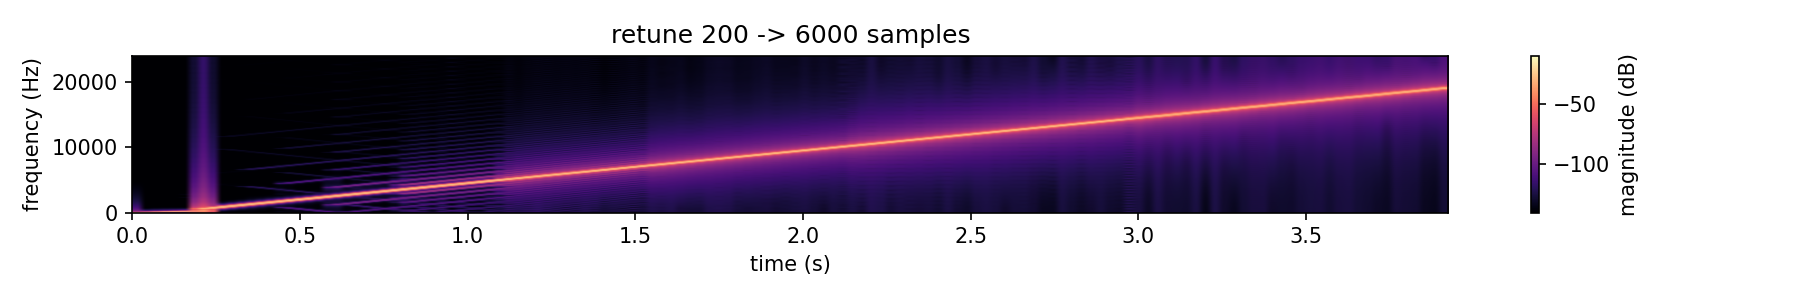
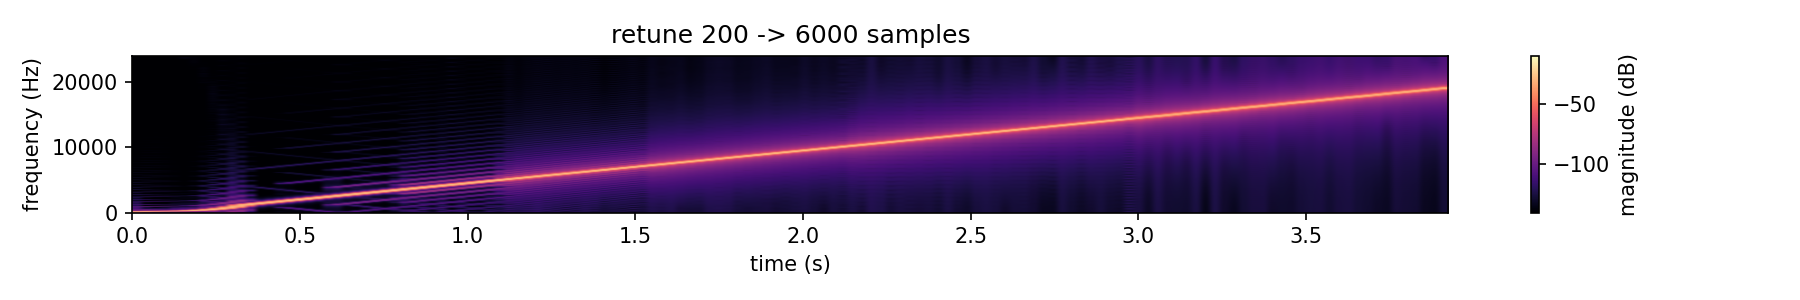
Ease the WobbleDelay retune with a smoothstep glide

Changed region(s): [[0.0622, 0.18, 0.1556, 0.72]]

diff --git a/src/includes/Delays/WobbleDelay.h b/src/includes/Delays/WobbleDelay.h
@@ -12,7 +12,6 @@
 #include "Modulation/Flutter.h"
 #include "Modulation/Wow.h"
 #include "Numbers/Interpolation.h"
-#include "Parameters/SmoothingParameter.h"
 
 namespace AbacDsp
 {
@@ -22,10 +21,11 @@ namespace AbacDsp
  * @brief Mono single-rate delay whose read head wobbles like a tape transport.
  *
  * The read position is the write head minus a delay, so it can never drift from it. That
- * delay is a smoothed base distance plus a Wow delay and a Flutter offset, updated every
+ * delay is an eased base distance plus a Wow delay and a Flutter offset, updated every
  * TileSize samples and interpolated linearly in between. The result is clamped to the safety
  * margin, so the read head can not reach the write head however deep the modulation is.
- * setDelay() glides at a bounded read speed instead of jumping. The read is Catmull-Rom.
+ * setDelay() glides along a smoothstep curve, so the read speed is zero at both ends of a retune
+ * and its peak is bounded. The read is Catmull-Rom.
  *
  * There is no resampling here: run it at another rate by wrapping it in UpDownSampler.
  * Flutter is a speed error, used here directly as a position offset scaled to the physical
@@ -39,8 +39,10 @@ class WobbleDelay
     static_assert(TileSize > 0);
 
   public:
-    /// Fastest retune in samples of delay change per sample, i.e. reads at 0.5x or 1.5x speed.
+    /// Peak retune speed in samples of delay change per sample, i.e. reads at 0.5x or 1.5x speed.
     static constexpr float kRetuneSlope{0.5f};
+    /// Peak slope of the smoothstep curve, which a retune's duration is stretched by.
+    static constexpr float kSmoothstepPeakSlope{1.5f};
     /// Flutter frequency at which its position offset equals the physical delay excursion.
     static constexpr float kFlutterReferenceHz{10.f};
     /// Fewest samples between write and read that the four-point read can support.
@@ -49,8 +51,7 @@ class WobbleDelay
     static constexpr float kDefaultDelay{static_cast<float>(BufferSize) / 8.f};
 
     explicit WobbleDelay(const float sampleRate)
-        : m_sampleRate(sampleRate)
-        , m_controlRate(sampleRate / static_cast<float>(TileSize))
+        : m_controlRate(sampleRate / static_cast<float>(TileSize))
         , m_msToSamples(sampleRate / 1000.f)
         , m_flutterScale(sampleRate / (2.f * std::numbers::pi_v<float> * kFlutterReferenceHz))
         , m_buffer(BufferSize, 0.f)
@@ -61,11 +62,20 @@ class WobbleDelay
     }
 
     /// @brief Moves the base delay to the given number of samples, gliding unless forced.
+    /// A retune started during a glide continues from the current position at zero speed.
     void setDelay(const float samples, const bool force = false) noexcept
     {
         const auto target = std::clamp(samples, m_safetyMargin, kMaxDelay);
-        const auto seconds = std::abs(target - m_distance.getLastValue()) / (kRetuneSlope * m_sampleRate);
-        m_distance.newTransition(target, seconds, m_controlRate, force);
+        m_glideStart = m_baseDelay;
+        m_glideTarget = target;
+        m_glideTick = 0;
+        const auto peakTicks =
+            kSmoothstepPeakSlope * std::abs(target - m_baseDelay) / (kRetuneSlope * static_cast<float>(TileSize));
+        m_glideTicks = force ? 0 : static_cast<size_t>(std::ceil(peakTicks));
+        if (m_glideTicks == 0)
+        {
+            m_baseDelay = target;
+        }
         if (force)
         {
             m_delay = target;
@@ -149,12 +159,31 @@ class WobbleDelay
   private:
     void updateControl() noexcept
     {
-        const auto base = m_distance.getValue();
+        const auto base = advanceGlide();
         static_cast<void>(m_wow.step());
         const auto wow = m_wow.lastDelay() * m_msToSamples;
         const auto flutter = (m_flutter.step() - 1.f) * m_flutterScale;
         const auto target = std::clamp(base + wow + flutter, m_safetyMargin, kMaxDelay);
         m_delaySlope = (target - m_delay) / static_cast<float>(TileSize);
+    }
+
+    [[nodiscard]] float advanceGlide() noexcept
+    {
+        if (m_glideTicks == 0)
+        {
+            return m_baseDelay;
+        }
+        ++m_glideTick;
+        if (m_glideTick >= m_glideTicks)
+        {
+            m_glideTicks = 0;
+            m_baseDelay = m_glideTarget;
+            return m_baseDelay;
+        }
+        const auto progress = static_cast<float>(m_glideTick) / static_cast<float>(m_glideTicks);
+        const auto eased = progress * progress * (3.f - 2.f * progress);
+        m_baseDelay = m_glideStart + (m_glideTarget - m_glideStart) * eased;
+        return m_baseDelay;
     }
 
     [[nodiscard]] static size_t wrap(const size_t index) noexcept
@@ -172,7 +201,6 @@ class WobbleDelay
         return Interpolation::hermite43x(taps.data(), 1.f - fraction);
     }
 
-    const float m_sampleRate;
     const float m_controlRate;
     const float m_msToSamples;
     const float m_flutterScale;
@@ -180,7 +208,11 @@ class WobbleDelay
     std::vector<float> m_buffer;
     size_t m_head{0};
 
-    LinearSmoothing m_distance{kDefaultDelay};
+    float m_baseDelay{kDefaultDelay};
+    float m_glideStart{kDefaultDelay};
+    float m_glideTarget{kDefaultDelay};
+    size_t m_glideTick{0};
+    size_t m_glideTicks{0};
     Flutter m_flutter;
     Wow m_wow;
     float m_safetyMargin{kStructuralMinDelay};

diff --git a/test/Delays/WobbleDelay_test.cpp b/test/Delays/WobbleDelay_test.cpp
@@ -121,28 +121,66 @@ TEST(WobbleDelayTest, ForcedDelayJumpsAtOnce)
     EXPECT_FLOAT_EQ(sut.currentDelay(), 700.f);
 }
 
-TEST(WobbleDelayTest, RetuneGlidesAtBoundedSpeed)
+TEST(WobbleDelayTest, RetuneGlidesSmoothlyAtBoundedSpeed)
 {
     Sut sut(kRate);
     sut.setDelay(200.f, true);
     sut.setDelay(1000.f);
 
     float previous = sut.currentDelay();
+    float previousSpeed{0.f};
+    float peakSpeed{0.f};
+    float maxSpeedChange{0.f};
     size_t arrivedAt{0};
     for (size_t i = 1; i <= 4000; ++i)
     {
         static_cast<void>(sut.step(0.f));
         const auto now = sut.currentDelay();
-        ASSERT_LE(std::abs(now - previous), Sut::kRetuneSlope + 1e-3f) << "at " << i;
+        const auto speed = now - previous;
+        ASSERT_GE(speed, 0.f) << "at " << i;
+        ASSERT_LE(speed, Sut::kRetuneSlope + 1e-3f) << "at " << i;
+        if (i == 1)
+        {
+            EXPECT_LT(speed, 0.01f) << "starts at zero speed";
+        }
+        peakSpeed = std::max(peakSpeed, speed);
+        maxSpeedChange = std::max(maxSpeedChange, std::abs(speed - previousSpeed));
         previous = now;
+        previousSpeed = speed;
         if (arrivedAt == 0 && std::abs(now - 1000.f) < 1e-3f)
         {
             arrivedAt = i;
         }
     }
     EXPECT_FLOAT_EQ(sut.currentDelay(), 1000.f);
-    EXPECT_GE(arrivedAt, 1500u);
-    EXPECT_LE(arrivedAt, 1700u);
+    EXPECT_LT(previousSpeed, 0.01f) << "ends at zero speed";
+    EXPECT_GT(peakSpeed, Sut::kRetuneSlope * 0.9f);
+    EXPECT_LT(maxSpeedChange, 0.02f);
+    EXPECT_GE(arrivedAt, 2300u);
+    EXPECT_LE(arrivedAt, 2500u);
+}
+
+TEST(WobbleDelayTest, RetuneDuringAGlideStartsFromWhereItIs)
+{
+    Sut sut(kRate);
+    sut.setDelay(200.f, true);
+    sut.setDelay(1000.f);
+    for (size_t i = 0; i < 800; ++i)
+    {
+        static_cast<void>(sut.step(0.f));
+    }
+    const auto midway = sut.currentDelay();
+    EXPECT_GT(midway, 300.f);
+    EXPECT_LT(midway, 900.f);
+
+    sut.setDelay(300.f);
+    static_cast<void>(sut.step(0.f));
+    EXPECT_NEAR(sut.currentDelay(), midway, 1.f);
+    for (size_t i = 0; i < 4000; ++i)
+    {
+        static_cast<void>(sut.step(0.f));
+    }
+    EXPECT_FLOAT_EQ(sut.currentDelay(), 300.f);
 }
 
 TEST(WobbleDelayTest, RetuneOutputStaysBounded)

diff --git a/documentation/Delays/WobbleDelay/README.md b/documentation/Delays/WobbleDelay/README.md
@@ -35,9 +35,12 @@ pins this.
 
 ![Retune glide, 200 -> 6000 -> 1000 samples](wd_retune.png)
 
-Retune glide. `setDelay()` moves the base delay at up to 0.5 samples per sample, meaning the read
-head runs at 0.5 or 1.5 times speed during a retune, never faster. 200 to 6000 samples takes 0.24 s
-and 6000 to 1000 takes 0.21 s. The ramp is linear, so its speed changes abruptly at both ends.
+Retune glide. `setDelay()` moves the base delay along a smoothstep curve. Its steepest point is
+0.5 samples per sample, meaning the read head runs at 0.5 or 1.5 times speed there and never
+faster, and it runs at exactly 1.0 at both ends of the glide. Because the peak is bounded, the
+glide takes 1.5 times as long as a linear ramp at that speed: 200 to 6000 samples takes 0.36 s and
+6000 to 1000 takes 0.31 s. A retune started during a glide continues from where the delay is, at
+zero speed.
 
 ![Swept tone, no modulation, flutter, wow, both](wd_sweep.png)
 
@@ -49,8 +52,9 @@ around the ridge, with a slightly lifted floor at the top of the sweep.
 
 ![Swept tone during a retune from 200 to 6000 samples](wd_sweep_retune.png)
 
-Swept tone during a retune. While the delay grows the tone is read at half speed, which lowers
-the ridge for the length of the glide. At the end of the glide, at about 0.24 s, there is a
-short broadband burst: the read speed jumps from 0.5 to 1.0 in one step, and a step in
-instantaneous frequency splatters across the spectrum. An eased glide with zero speed at both ends
-removes it.
+Swept tone during a retune. While the delay grows the tone is read slower than normal, which
+lowers the ridge for the length of the glide, and it recovers smoothly as the glide ends. An
+earlier version of the glide used a linear ramp, whose read speed jumped from 0.5 to 1.0 at its
+end. A step in instantaneous frequency splatters across the whole spectrum, and it showed here as
+a full-height burst at the end of the glide. With the eased curve, whose delay speed is zero at
+both ends, only a faint smear about 100 dB down remains near 0.3 s.
